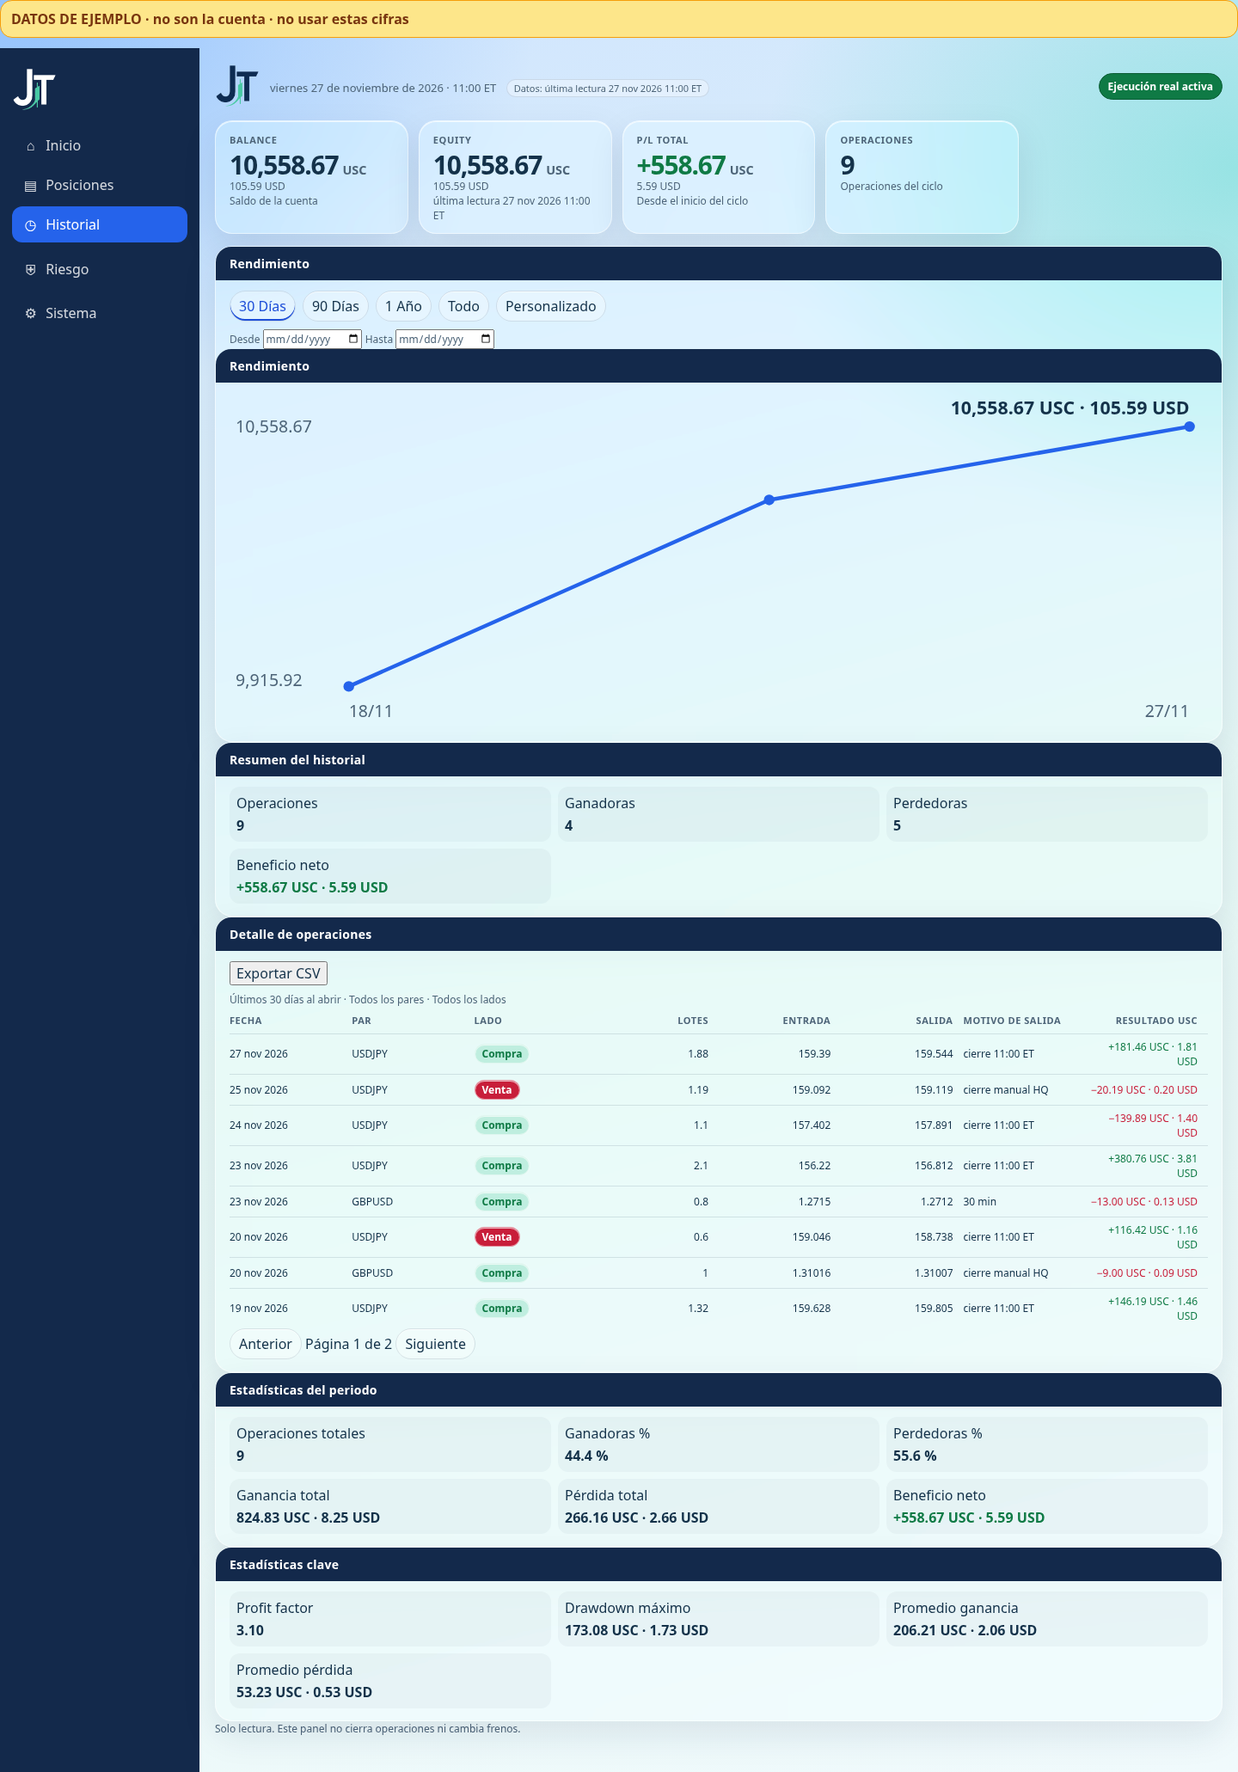
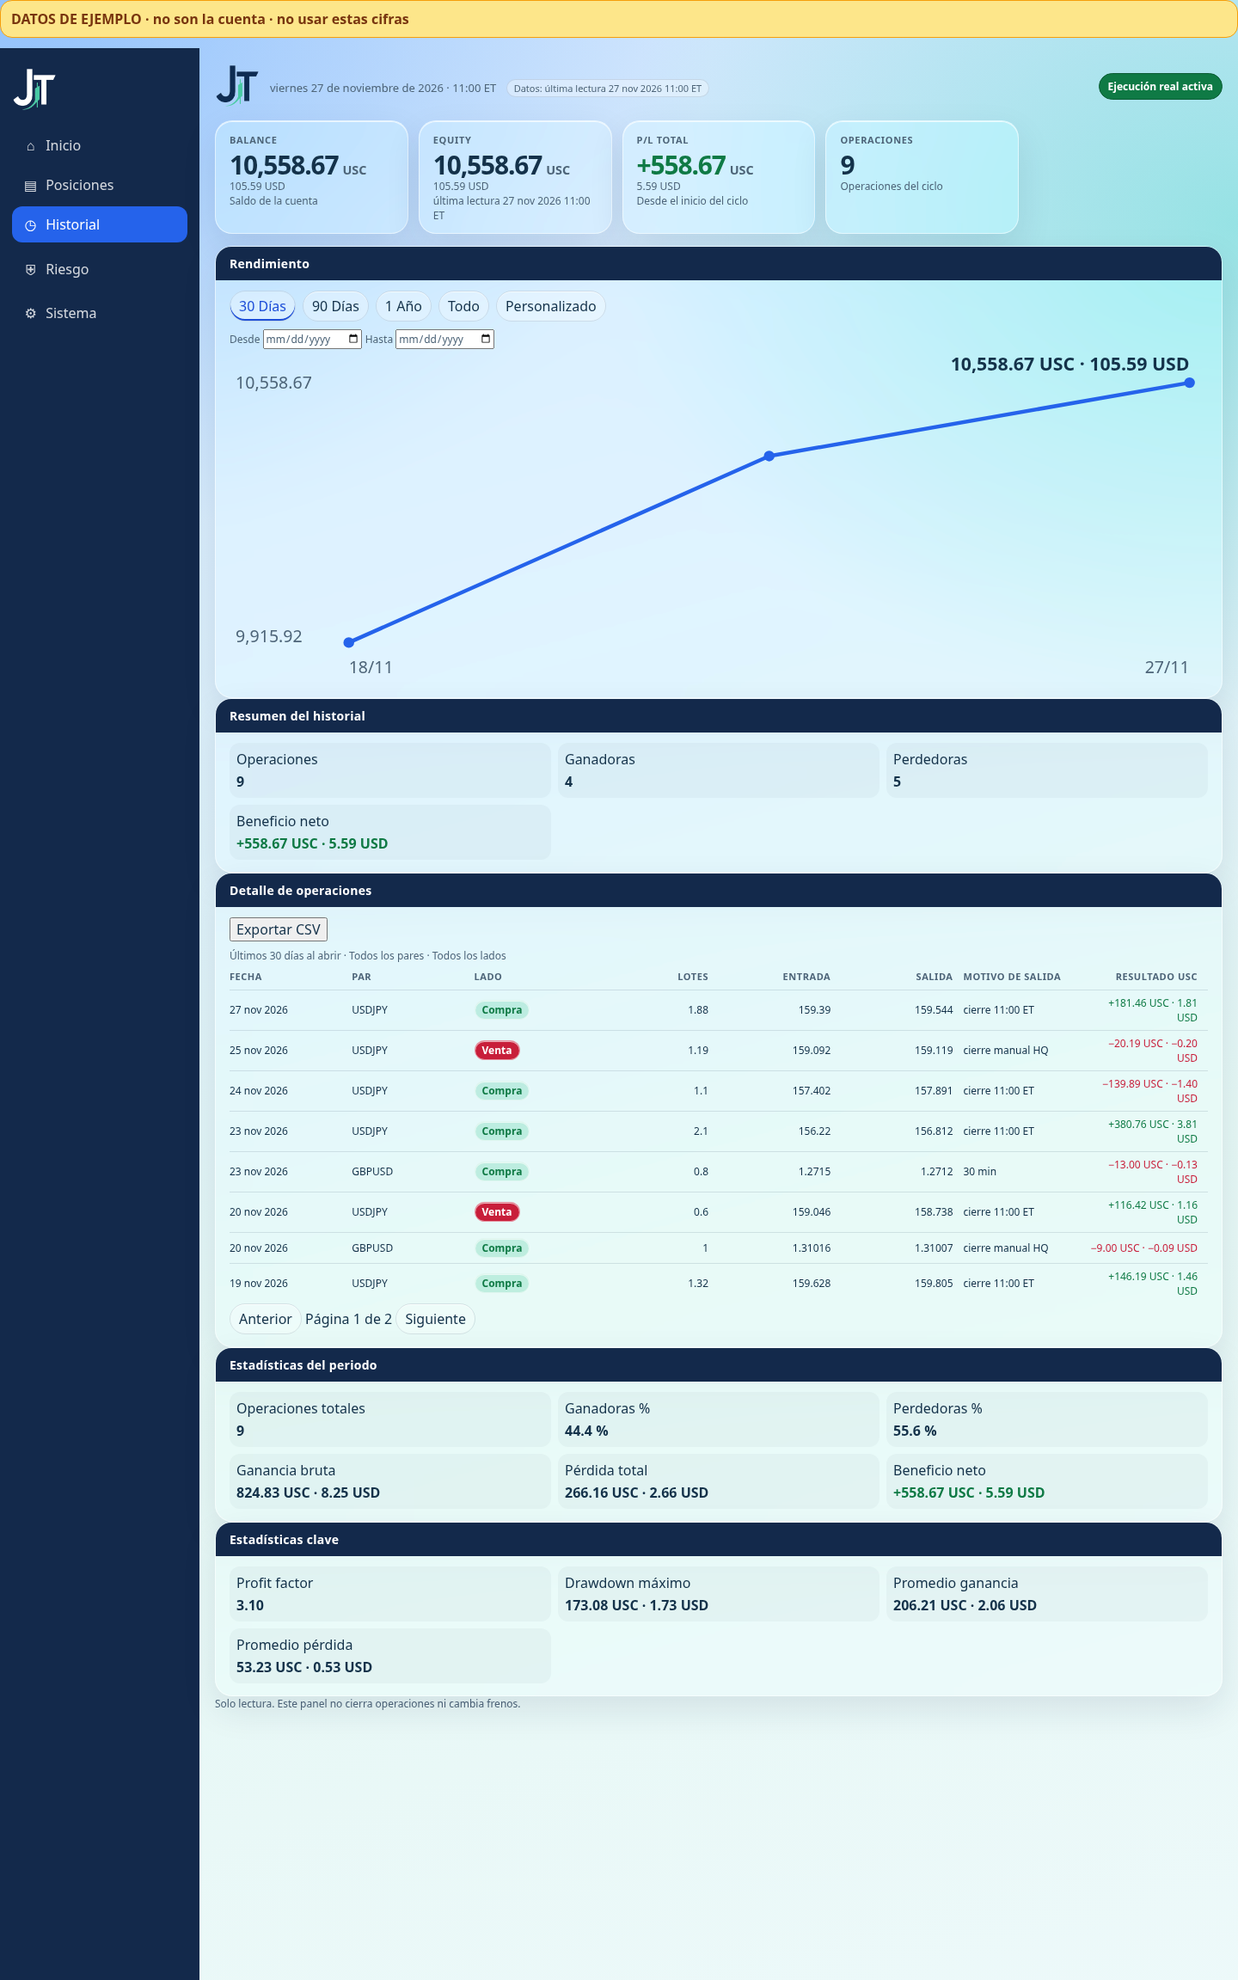
Historial: pata sin ticket, un Rendimiento y el menos del USD (#113)
El backfill rellena una pata terminal sin ticket. El Historial abre con un solo Rendimiento y la grafica de 30 dias. Una perdida pinta el menos tambien en USD.

diff --git a/test_combo_history.py b/test_combo_history.py
@@ -152,7 +152,8 @@ class BackfillTests(unittest.TestCase):
         result = backfill_combo_history(self.broker)
         self.assertTrue(result["fetched"])
         self.assertEqual(result["updated"], 4)
-        self.assertEqual(result["pending"], 0)
+        # El Fix del 19 nov sigue terminal, sin ticket y sin P/L: cuenta como pendiente.
+        self.assertEqual(result["pending"], 1)
         self.assertEqual(self.client.mutated, 0)
         self.assertTrue(self.client.paths)
         self.assertTrue(all("/deals" in path for path in self.client.paths))
@@ -306,6 +307,104 @@ class FlatFlagBackfillTests(unittest.TestCase):
         self.assertEqual(row["entry"], "159.092")
         self.assertEqual(row["exit_price"], "159.119")
         self.assertEqual(row["reason"], "cierre manual HQ")
+
+    def test_a_done_leg_without_a_ticket_is_filled_from_the_nov_25_deal(self):
+        day = datetime(2026, 11, 25, tzinfo=timezone.utc)
+        store = MemoryFlags()
+        opened = "2026-11-25T07:30:39+00:00"
+        closed = "2026-11-25T16:07:49+00:00"
+        key = london_key(day.date())
+        put(store, key, {"status": "done", "exited": True})
+        others = (
+            ("combo_lon_2026-11-27", "181.46", "USDJPY", "LONG"),
+            ("combo_lon_2026-11-24", "-139.89", "USDJPY", "LONG"),
+            ("combo_fix_2026-11-23", "-13", "GBPUSD", "LONG"),
+            ("combo_lon_2026-11-23", "380.76", "USDJPY", "LONG"),
+            ("combo_fix_2026-11-20", "-9", "GBPUSD", "LONG"),
+            ("combo_lon_2026-11-20", "116.42", "USDJPY", "SHORT"),
+            ("combo_lon_2026-11-19", "146.19", "USDJPY", "LONG"),
+            ("combo_lon_2026-11-18", "-84.08", "USDJPY", "SHORT"),
+        )
+        for name, pnl, symbol, side in others:
+            put(store, name, {
+                "status": "done", "exited": True, "symbol": symbol, "side": side,
+                "position_id": name, "pnl": pnl, "entry": "1", "exit_price": "1",
+                "exit_reason": "london_1100", "volume": "1",
+                "opened_at": "2026-11-20T12:00:00+00:00",
+            })
+        client = FakeHistoryClient([
+            deal("440549", "open", "159.092", "0", opened, direction="sell", volume="1.19"),
+            deal("440549", "close", "159.119", ("-20.19", "USC"), closed,
+                 direction="buy", volume="1.19"),
+        ])
+        broker = FakeBroker(store, client)
+        broker.open_trades = lambda: []
+        now = datetime(2026, 11, 27, 21, 0, tzinfo=timezone.utc)
+        result = backfill_combo_history(broker, now=now)
+        self.assertEqual(result["updated"], 1)
+        self.assertEqual(result["pending"], 0)
+        self.assertEqual(client.mutated, 0)
+        state = load(store, key)
+        self.assertEqual(state["position_id"], "440549")
+        self.assertEqual(state["symbol"], "USDJPY")
+        self.assertEqual(state["side"], "SHORT")
+        self.assertEqual(state["volume"], "1.19")
+        self.assertEqual(state["entry"], "159.092")
+        self.assertEqual(state["exit_price"], "159.119")
+        self.assertEqual(state["pnl"], "-20.19")
+        self.assertEqual(state["exit_reason"], "hq_manual")
+        self.assertEqual(state["opened_at"], opened)
+        self.assertEqual(state["exit_at"], closed)
+        flags = {name: store.get_flag(name) for name, *_rest in others}
+        flags[key] = store.get_flag(key)
+        view = _view(now=now, flags=flags)
+        self.assertEqual(len(view["history"]["rows"]), 9)
+        self.assertIn("558.67", view["history"]["stats"]["net"])
+        row = next(item for item in view["history"]["rows"] if item["ticket"] == "440549")
+        self.assertEqual(row["side"], "Venta")
+        self.assertEqual(row["lots"], "1.19")
+        self.assertEqual(row["entry"], "159.092")
+        self.assertEqual(row["exit_price"], "159.119")
+        self.assertEqual(row["reason"], "cierre manual HQ")
+
+    def test_a_filled_exit_without_a_ticket_uses_the_same_deal(self):
+        day = datetime(2026, 11, 25, tzinfo=timezone.utc)
+        store = MemoryFlags()
+        opened = "2026-11-25T07:30:39+00:00"
+        closed = "2026-11-25T16:07:49+00:00"
+        key = london_key(day.date())
+        put(store, key, {"status": "filled", "exited": True})
+        client = FakeHistoryClient([
+            deal("440549", "open", "159.092", "0", opened, direction="sell", volume="1.19"),
+            deal("440549", "close", "159.119", ("-20.19", "USC"), closed,
+                 direction="buy", volume="1.19"),
+        ])
+        broker = FakeBroker(store, client)
+        broker.open_trades = lambda: []
+        result = backfill_combo_history(broker, now=datetime(2026, 11, 27, 21, 0, tzinfo=timezone.utc))
+        self.assertEqual(result["updated"], 1)
+        self.assertEqual(result["pending"], 0)
+        state = load(store, key)
+        self.assertEqual(state["position_id"], "440549")
+        self.assertEqual(state["symbol"], "USDJPY")
+        self.assertEqual(state["pnl"], "-20.19")
+        self.assertEqual(state["exit_reason"], "hq_manual")
+
+    def test_an_unresolved_blank_leg_stays_pending_and_is_not_rewritten(self):
+        day = datetime(2026, 11, 25, tzinfo=timezone.utc)
+        store = MemoryFlags()
+        key = london_key(day.date())
+        put(store, key, {"status": "done", "exited": True})
+        before = store.get_flag(key)
+        broker = FakeBroker(store, FakeHistoryClient([]))
+        broker.open_trades = lambda: []
+        result = backfill_combo_history(
+            broker, now=datetime(2026, 11, 27, 21, 0, tzinfo=timezone.utc))
+        self.assertEqual(result["updated"], 0)
+        self.assertGreater(result["pending"], 0)
+        self.assertEqual(store.get_flag(key), before)
+        self.assertIsNone(load(store, key).get("position_id"))
+        self.assertIsNone(load(store, key).get("pnl"))
 
     def test_two_close_deals_sum_to_one_pnl(self):
         day = datetime(2026, 11, 25, tzinfo=timezone.utc)

diff --git a/execution/combo_history.py b/execution/combo_history.py
@@ -217,6 +217,29 @@ def fill_state_from_deals(state, deals, key=None):
     return changed
 
 
+def _fill_times_from_deals(state, deals):
+    """Horario de entrada y salida del propio deal, solo si el flag no lo tiene."""
+    ticket = str((state or {}).get("position_id") or "").strip()
+    if not ticket:
+        return
+    opens, closes = [], []
+    for deal in deals or ():
+        if not isinstance(deal, dict) or str(deal.get("position_id") or "").strip() != ticket:
+            continue
+        if deal.get("type") == "open":
+            opens.append(deal)
+        elif deal.get("type") == "close":
+            closes.append(deal)
+    if not state.get("opened_at") and opens:
+        stamp = _deal_time(opens[0])
+        if stamp is not None:
+            state["opened_at"] = stamp.astimezone(timezone.utc).isoformat()
+    if not state.get("exit_at") and closes:
+        stamp = _deal_time(closes[-1])
+        if stamp is not None:
+            state["exit_at"] = stamp.astimezone(timezone.utc).isoformat()
+
+
 def _aware(value):
     if isinstance(value, datetime) and value.tzinfo is not None and value.utcoffset() is not None:
         return value.astimezone(timezone.utc)
@@ -257,6 +280,26 @@ def _incomplete(state):
 def _filled_open(state):
     """Pata ``filled`` que el flag aún no dio por salida."""
     return (state or {}).get("status") == "filled" and (state or {}).get("exited") is not True
+
+
+def _no_ticket(state):
+    return not str((state or {}).get("position_id") or "").strip()
+
+
+def _blank_terminal(state):
+    """Cerrada en el flag, pero sin ticket: el Historial no puede pintarla."""
+    return _incomplete(state) and _no_ticket(state)
+
+
+def _with_london_symbol(state, key):
+    """combo_lon_ sin par es USDJPY. No se guarda si el ticket no se cruza."""
+    if str((state or {}).get("symbol") or "").strip():
+        return state
+    if not str(key or "").startswith("combo_lon_"):
+        return state
+    guessed = dict(state)
+    guessed["symbol"] = "USDJPY"
+    return guessed
 
 
 def _row_ticket(row):
@@ -484,21 +527,26 @@ def backfill_combo_history(broker, *, now=None, get_json=None):
         if not isinstance(now, datetime) or now.tzinfo is None:
             now = datetime.now(timezone.utc)
         today = now.astimezone(timezone.utc).date()
-        loaded, flat = [], []
+        loaded, flat, blank = [], [], []
         for key, raw in _iter_combo_keys(store, today):
             state = _load_state(raw)
             if state is None:
                 continue
-            if _incomplete(state):
+            if _blank_terminal(state):
+                blank.append((key, state))
+            elif _incomplete(state):
                 loaded.append((key, state))
             elif _filled_open(state):
                 flat.append((key, state))
-        rows = open_rows(broker) if flat else None
+        rows = open_rows(broker) if (flat or blank) else None
         # Una pata filled que ya no está en el libro se cierra aquí. El backfill viejo solo miraba patas ya cerradas.
         waiting = [(key, state) for key, state in flat if rows is not None and not _still_held(state, rows)]
+        # Sin ticket también hay que pedir deals: si no, updated=0 y pending=0 y la fila no sale.
         need_deals = [(key, state) for key, state in loaded if str(state.get("position_id") or "").strip()]
         need_deals.extend(waiting)
-        result["pending"] = len(loaded) + len(waiting)
+        if rows is not None:
+            need_deals.extend(blank)
+        result["pending"] = len(loaded) + len(waiting) + len(blank)
         deals = []
         if need_deals:
             client = history_client(broker)
@@ -518,9 +566,32 @@ def backfill_combo_history(broker, *, now=None, get_json=None):
                 continue
             store.set_flag(key, _dump(state))
             result["updated"] += 1
+        for key, state in blank:
+            # Sin libro no se cruza. Sin un único ticket no se reescribe el done vacío.
+            if rows is None:
+                continue
+            guessed = _with_london_symbol(state, key)
+            if not str(guessed.get("symbol") or "").strip():
+                continue
+            ticket = resolve_closed_ticket(guessed, key, deals, rows)
+            if not ticket:
+                continue
+            filled = dict(guessed)
+            filled["position_id"] = ticket
+            fill_state_from_deals(filled, deals, key=key)
+            _fill_times_from_deals(filled, deals)
+            if _no_ticket(filled) or not _present(filled.get("pnl")):
+                continue
+            state.clear()
+            state.update(filled)
+            store.set_flag(key, _dump(state))
+            result["updated"] += 1
         still = 0
         for key, state in loaded:
             if _incomplete(state) and str(state.get("position_id") or "").strip():
+                still += 1
+        for key, state in blank:
+            if _no_ticket(state) or not _present(state.get("pnl")):
                 still += 1
         if rows is None:
             still += len(flat)

diff --git a/ui/liquid/render.py b/ui/liquid/render.py
@@ -277,18 +277,21 @@ def _brakes_card(view):
             f'<div class="split brake-split"><div>{rows}</div>{shield}</div></article>')
 
 
-def _chart_card(view, key, title):
+def _chart_card(view, key, title, *, show_title=True):
     ranges = view["curve"].get("ranges") or {}
     curve = ranges.get(key) or view["curve"]
     if curve.get("state") != "ok":
         body = f'<p class="na">{_e(MISSING)}</p><p class="hint">No hay una serie de equity guardada en ese rango.</p>'
     else:
         body = _chart(curve["points"])
-    hidden = "" if key in ("30", "all") else " hidden"
-    attr = f' data-chart="{key}"' if key != "home" else ""
+    # Al abrir el Historial solo se ve 30 días. «all» no sale junto con esa gráfica.
     if key == "home":
         hidden, attr = "", ""
-    return f'<div{attr}{hidden}><h2>{_e(title)}</h2>{body}</div>'
+    else:
+        attr = f' data-chart="{key}"'
+        hidden = "" if key == "30" else " hidden"
+    head = f"<h2>{_e(title)}</h2>" if show_title and title else ""
+    return f"<div{attr}{hidden}>{head}{body}</div>"
 
 
 def _system_card(view, compact=False):
@@ -387,7 +390,7 @@ def _history_page(view):
     ranges = "" if not has_curve else "".join(
         f'<button type="button" data-range="{key}"{" aria-current=\"page\"" if key == "30" else ""}>{_e(label)}</button>'
         for key, label in RANGES)
-    charts = "".join(_chart_card(view, key, "Rendimiento") for key in ("30", "90", "365", "all")) if has_curve else (
+    charts = "".join(_chart_card(view, key, "Rendimiento", show_title=False) for key in ("30", "90", "365", "all")) if has_curve else (
         f'<p class="na">{_e(MISSING)}</p><p class="hint">No hay una serie de equity guardada.</p>')
     custom = f'<div data-chart="custom" hidden><p class="na">{_e(MISSING)}</p><p class="hint">El rango personalizado filtra la tabla. El gráfico no se inventa.</p></div>'
     table = _trade_table(view["history"]["rows"], tagged=True) if view["history"]["rows"] else '<p class="hint">Sin operaciones cerradas en el registro.</p>'

diff --git a/test_liquid_glass.py b/test_liquid_glass.py
@@ -531,8 +531,30 @@ class HistorySquareTests(unittest.TestCase):
         self.assertIn("20.19", html)
         self.assertIn("Ganancia bruta", html)
         self.assertNotIn("Ganancia total", html)
+        self.assertIn("−139.89 USC · −1.40 USD", html)
+        self.assertNotIn("−139.89 USC · 1.40 USD", html)
         self.assertNotIn("Sin operación", html)
         self.assertEqual(len(symbols), 9)
+
+    def test_rendimiento_has_one_heading_and_opens_on_thirty_days(self):
+        from ui.liquid.preview import example_view
+        html = fragment(example_view(), section="Historial")
+        self.assertEqual(html.count("<h2>Rendimiento</h2>"), 1)
+        self.assertIn('data-chart="30"', html)
+        self.assertNotIn('data-chart="30" hidden', html)
+        self.assertIn('data-chart="all" hidden', html)
+        self.assertIn('data-chart="90" hidden', html)
+        self.assertIn('data-chart="365" hidden', html)
+
+    def test_a_loss_signs_both_the_usc_and_the_usd(self):
+        from decimal import Decimal
+        from ui.liquid.model import _signed
+        text, tone = _signed(Decimal("-139.89"), "USC")
+        self.assertEqual(text, "−139.89 USC · −1.40 USD")
+        self.assertEqual(tone, "neg")
+        plus, plus_tone = _signed(Decimal("181.46"), "USC")
+        self.assertEqual(plus, "+181.46 USC · 1.81 USD")
+        self.assertEqual(plus_tone, "pos")
 
     def test_closed_leg_keeps_lots_entry_exit_and_reason(self):
         now = datetime(2026, 11, 27, 21, 0, tzinfo=timezone.utc)

diff --git a/ui/liquid/model.py b/ui/liquid/model.py
@@ -118,6 +118,10 @@ def _signed(amount, currency):
     if amount > 0:
         return "+" + text, "pos"
     if amount < 0:
+        # El menos va en el USC y en el USD: «−139.89 USC · −1.40 USD».
+        if " · " in text:
+            left, right = text.split(" · ", 1)
+            return f"−{left} · −{right}", "neg"
         return "−" + text, "neg"
     return text, "flat"
 

diff --git a/docs/STATUS.md b/docs/STATUS.md
@@ -1,6 +1,8 @@
 # STATUS — AI Trading Floor V2
 
-_Última actualización: 2026-11-27 (rama `cursor/historial-book-square-385b`, sobre `ea25569`). El Historial pinta la pata del 25 nov que sigue `filled` sin ticket: la tabla y el resumen usan las mismas operaciones. Lotes, entrada, salida y motivo salen del flag (`cierre 11:00 ET`, `cierre manual HQ`). Un libro vacío ya publicado muestra 0.00; sin lectura sigue «sin datos». El encabezado del #111 sigue. Sin merge, sin deploy, sin Render._
+_Última actualización: 2026-11-28 (rama `cursor/historial-blank-chart-usd-385b`, sobre `77a4fc8`). Una pata ya `done` (o `filled` con salida) sin ticket ni P/L se cruza por el día, igual que una `waiting`. En `combo_lon_` sin par se asume USDJPY. Si no hay ticket, no se reescribe el flag y sigue pendiente. El Historial abre con un solo «Rendimiento» y solo la gráfica de 30 días. El USD de una pérdida lleva el mismo menos que el USC. Sin merge, sin deploy, sin Render._
+
+_Anterior: 2026-11-27 (rama `cursor/historial-book-square-385b`, sobre `ea25569`). El Historial pinta la pata del 25 nov que sigue `filled` sin ticket: la tabla y el resumen usan las mismas operaciones. Lotes, entrada, salida y motivo salen del flag (`cierre 11:00 ET`, `cierre manual HQ`). Un libro vacío ya publicado muestra 0.00; sin lectura sigue «sin datos». El encabezado del #111 sigue. Sin merge, sin deploy, sin Render._
 
 _Anterior: 2026-11-27 (rama `cursor/liquid-header-layout-42b1`, en main `ea25569`). Encabezado del panel: sin el texto «Exness Standard Cent (USC)»; el distintivo queda a la derecha del logo, en la misma fila; el logo de la cabecera es más grande. El fondo del menú arranca oculto y no tapa la página. La barra inferior no cubre el final de la pestaña. Riesgo separa las dos tarjetas. Al cambiar de pestaña la vista vuelve arriba. Sin merge, sin deploy, sin Render._
 

diff --git a/docs/phases/phase-10.md b/docs/phases/phase-10.md
@@ -1,5 +1,7 @@
 # Fase 10 — Command Center / Display V2
 
+**Adenda 2026-11-28 (presentación, no recertifica):** una pata ya terminal sin ticket ni P/L se cruza con los deals del día (en `combo_lon_` sin par, USDJPY) y no se reescribe si el ticket no sale. El Historial abre con un solo título Rendimiento y solo la gráfica de 30 días. El USD de una pérdida lleva signo menos. No cambia el estado CERTIFIED ni Render.
+
 **Adenda 2026-11-27 (presentación, no recertifica):** el Historial incluye la pata cerrada que el flag aún marca `filled` sin ticket, y lee el P/L aunque venga como importe del deal o como suma de partes. El resumen sale de esas mismas filas. Lotes, entrada, salida y motivo se copian del flag. Un Fix sin par ni P/L no se pinta. Si la foto no trae `positions` pero el ciclo ya publicó un libro vacío en `exness_live_marks`, el flotante es 0.00. Sin esa lectura, o si es vieja o el enlace está caído, sigue «sin datos». No cambia el estado CERTIFIED ni Render.
 
 **Adenda 2026-11-27 (presentación, encabezado, no recertifica):** el encabezado deja de mostrar «Exness Standard Cent (USC)»; las cifras en USC siguen. El distintivo de ejecución queda a la derecha del logo. El fondo `.aif-backdrop` arranca oculto, se cierra con Escape, al tocarlo y al cambiar de pestaña, y no recibe toques con el menú cerrado. El contenido tiene padding inferior de la barra más el área segura. Riesgo separa «Estrategia de hoy» y «Frenos de riesgo». Cambiar de pestaña vuelve arriba. No cambia el estado CERTIFIED ni Render.

diff --git a/CHANGELOG_AGENT.md b/CHANGELOG_AGENT.md
@@ -1,5 +1,12 @@
 # Agent Changelog
 
+## 2026-11-28 — backfill sin ticket, un Rendimiento, menos en el USD
+
+- Una pata terminal sin `position_id` (el `combo_lon_2026-11-25` en vivo) entra al mismo cruce que una `waiting`: deals del día, y en `combo_lon_` sin par se asume USDJPY. El deal 440549 rellena lado, lotes, entrada, salida, P/L y `hq_manual`. Sin ticket resuelto el flag no se vuelve a marcar `done` y `pending` sigue por encima de cero.
+- El Historial tiene un solo `<h2>Rendimiento</h2>`. Al abrir solo se ve la gráfica de 30 días.
+- Una pérdida pinta el menos en el USC y en el USD (`−139.89 USC · −1.40 USD`). Los topes y las ganancias no cambian.
+- Sin cambio de órdenes, frenos, variables de entorno ni Render. Sin merge y sin deploy.
+
 ## 2026-11-27 — historial y libro vacío cuadran
 
 - La tabla y el resumen del Historial salen de las mismas patas cerradas. La del 25 nov (sigue `filled`, sin ticket, P/L como importe del deal) entra y suma. Un Fix sin par ni P/L no se pinta. Una pata abierta tampoco.
